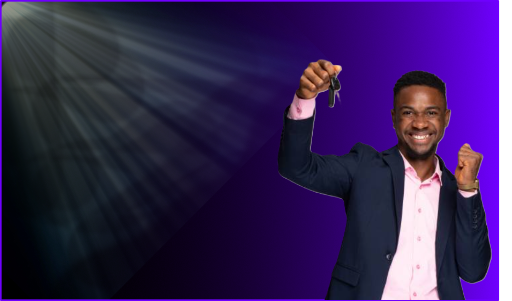
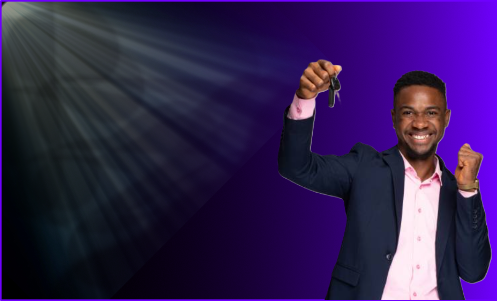
Designing Section 2

Changed region(s): [[0.5734, 0.0, 1.0, 1.0], [0.5433, 0.1794, 0.6942, 0.598]]

diff --git a/stylesheets/style.css b/stylesheets/style.css
@@ -1,3 +1,6 @@
+body{
+    font-family: Arial;
+}
 .header{
     width: 95vw;
     max-width: 720px;
@@ -53,4 +56,38 @@ button{
 }
 .adImg{
     width: 100%;
+}
+.introCon{
+    background-image: url("../images/molex_banner.png");
+    background-size: cover;
+    background-position: center;
+    background-repeat: no-repeat;
+    border: 2px solid #6F00FF;
+    border-radius: 30px;
+    min-width: 360px;
+    max-width: 600px;
+}
+.introTxtCon{
+    width: 70%;
+    padding: 10px 30px;
+}
+.mainTxt{
+    font-size: 20px;
+    font-family: Arial;
+    font-weight: bold;
+    color: white;
+}
+.subTxt{
+    font-size: 12px;
+    color: white;
+}
+.introBtnCon{
+    margin: 30px 0px;
+}
+.introBtn{
+    color: white;
+    background-color: #6F00FF;
+    margin: 20px 20px 0px 0px;
+    padding: 10px 20px;
+    border-radius: 500px;
 }

diff --git a/index.html b/index.html
@@ -39,10 +39,12 @@
         <div class="introCon">
             <div class="introTxtCon">
                 <p class="mainTxt">PURCHASE YOUR <br>DREAM CAR</p>
-                <p class="subTxt"></p>
+                <p class="subTxt">Search for a car you like, contact the seller, 
+                    <br>enquire more about it and make the 
+                    <br>purchase</p>
                 <div class="introBtnCon">
-                    <button class="introBtn"></button>
-                    <button class="introBtn"></button>
+                    <button class="introBtn">Find a car</button>
+                    <button class="introBtn">Make enquries</button>
                 </div>
             </div>
         </div>
